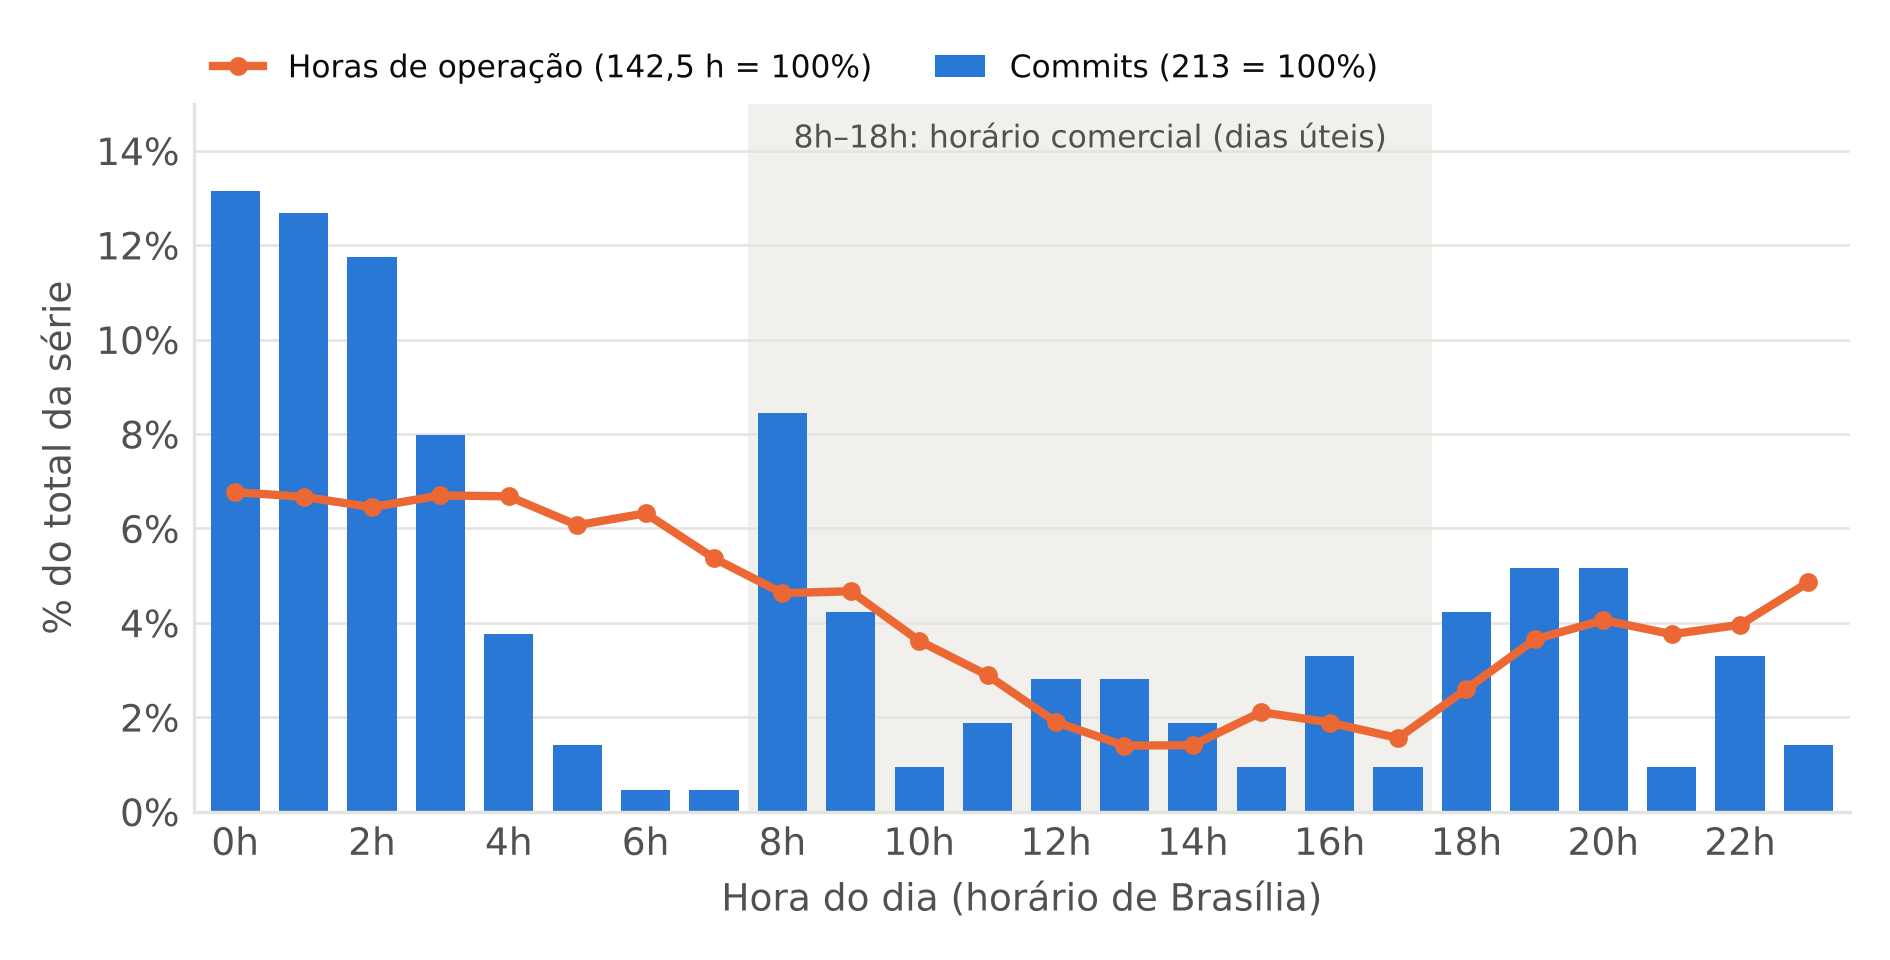
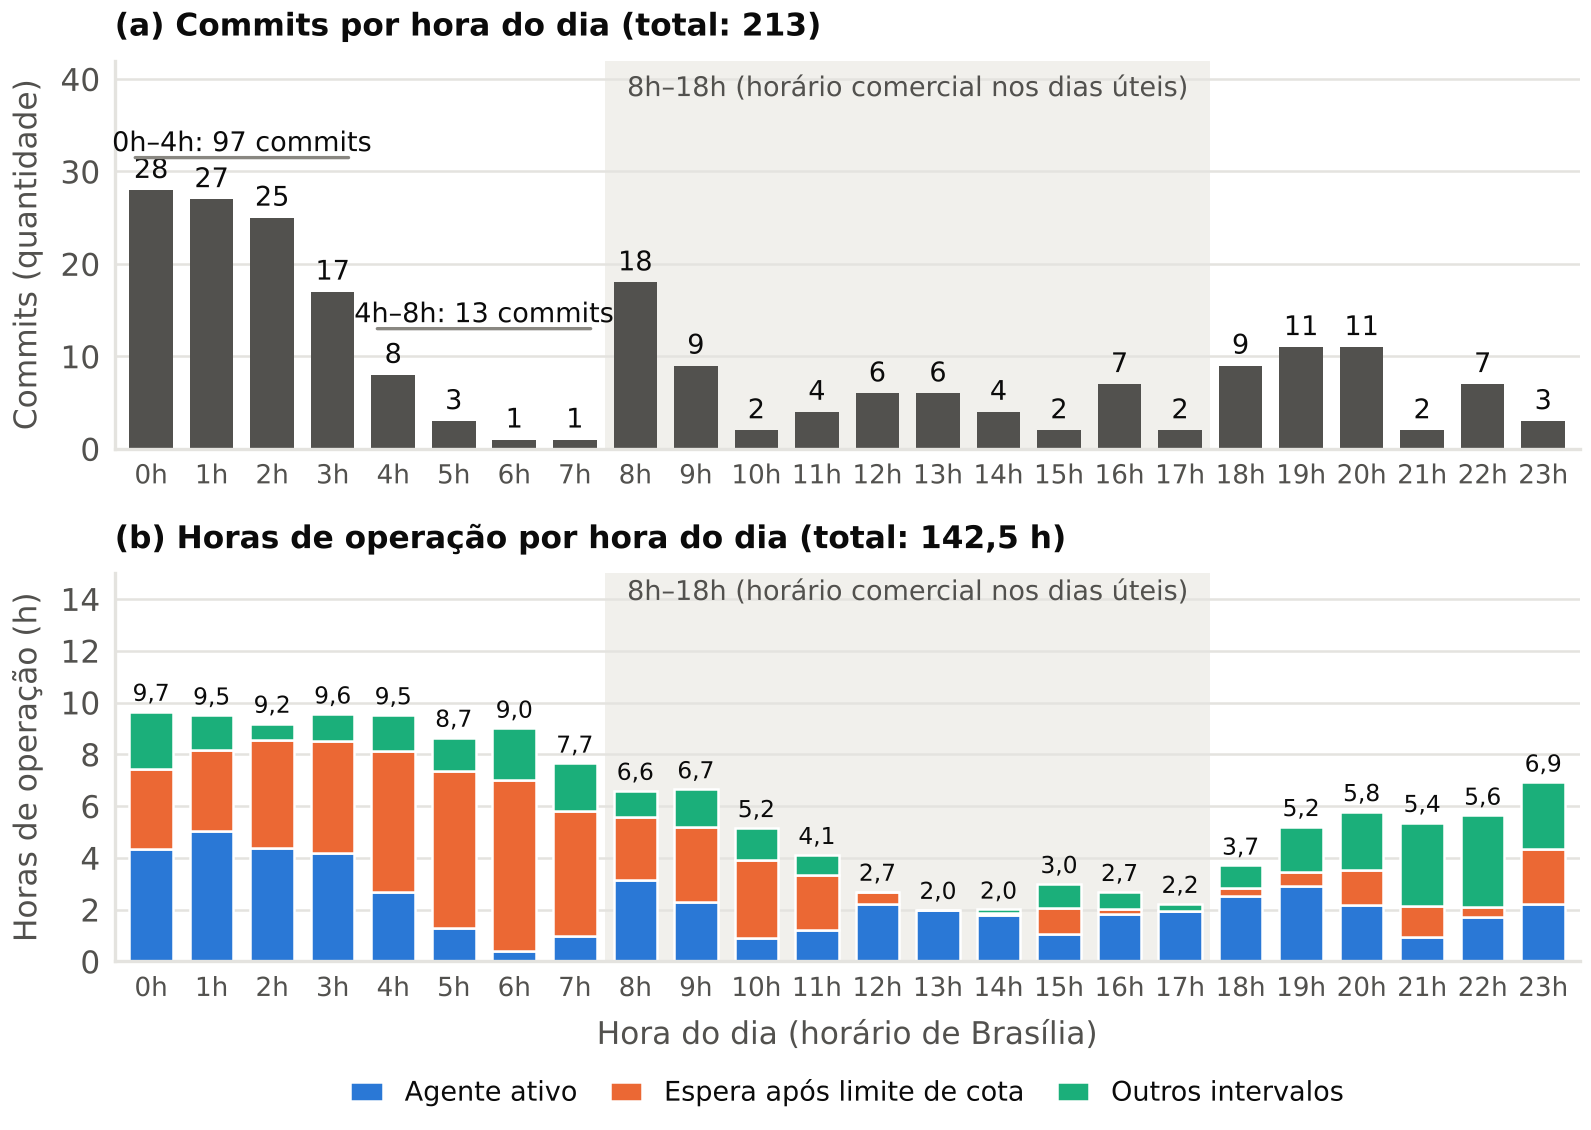
Figura 7 em dois painéis e commits por horário do estudo de caso
A Figura 7 passa a mostrar a quantidade de commits e as horas de operação
(agente ativo, espera após limite de cota e outros intervalos) por hora do
dia, no lugar do percentual de cada série. O analise.py do estudo de caso
ganha commits_por_horario, que distribui os 36 commits do Git feitos durante
a execução entre dentro e fora do horário comercial (21 e 15); novo
resultado ppt_commits_horario.csv e campo commits_por_horario no
resumo_ppt.json. PTAX de 06/10/2026 conferida no Banco Central e grafia dos
autores corrigida nos metadados. Versão 1.2-artigo no .zenodo.json e no
CITATION.cff.

Changed region(s): [[0.0, 0.0, 0.9855, 1.0], [0.4004, 0.125, 0.7392, 0.1562]]

diff --git a/corpus_multiprojeto/figura7.py b/corpus_multiprojeto/figura7.py
@@ -1,8 +1,9 @@
-"""Figura 7 do artigo: commits e horas de operação por hora do dia.
+"""Figura 7 do artigo: commits e horas de operação por hora do dia (27 execuções).
 
 Uso: python figura7.py resultados/distribuicao_horaria.csv figura7.png
 Requer matplotlib (único script do repositório que não usa só a biblioteca padrão).
-As duas séries estão em percentual do próprio total, para caberem num único eixo.
+Dois painéis com o mesmo eixo horizontal: (a) quantidade de commits por hora;
+(b) horas de operação por hora, divididas em agente ativo, espera após limite e outros.
 """
 import csv
 import sys
@@ -11,51 +12,91 @@ import matplotlib
 
 matplotlib.use("Agg")
 import matplotlib.pyplot as plt  # noqa: E402
-from matplotlib.ticker import FuncFormatter  # noqa: E402
 
-AZUL, LARANJA = "#2a78d6", "#eb6834"          # paleta categórica validada, posições 1 e 2
-TINTA, TINTA2, GRADE, FAIXA = "#0b0b0b", "#52514e", "#e4e3df", "#f1f0ec"
+TINTA, TINTA2, MUDO, GRADE, FAIXA = "#0b0b0b", "#52514e", "#898781", "#e4e3df", "#f1f0ec"
+COMMITS = "#52514e"                                   # série única: neutra
+ATIVO, ESPERA, OUTROS = "#2a78d6", "#eb6834", "#1baf7a"  # paleta categórica validada, 1-3
+
+
+def br(v, casas=1):
+    return f"{v:.{casas}f}".replace(".", ",")
+
+
+def faixa(ax, ytop, rotulo=True):
+    ax.axvspan(7.5, 17.5, color=FAIXA, zorder=0, lw=0)
+    if rotulo:
+        ax.text(12.5, ytop, "8h–18h (horário comercial nos dias úteis)", ha="center",
+                va="top", fontsize=6.5, color=TINTA2)
+
+
+def chave(ax, x0, x1, y, texto):
+    ax.annotate("", xy=(x0 - 0.4, y), xytext=(x1 + 0.4, y),
+                arrowprops=dict(arrowstyle="-", color=MUDO, lw=0.8))
+    ax.text((x0 + x1) / 2, y, texto, ha="center", va="bottom", fontsize=6.5, color=TINTA)
 
 
 def main(arq, saida):
-    linhas = list(csv.DictReader(open(arq, encoding="utf-8"), delimiter=";"))
-    horas = [int(r["hora_local"]) for r in linhas]
-    commits = [float(r["pct_commits"]) for r in linhas]
-    operacao = [float(r["pct_horas_operacao"]) for r in linhas]
-    n_commits = sum(int(r["commits"]) for r in linhas)
-    h_op = sum(float(r["horas_operacao"]) for r in linhas)
+    L = list(csv.DictReader(open(arq, encoding="utf-8"), delimiter=";"))
+    h = [int(r["hora_local"]) for r in L]
+    com = [int(r["commits"]) for r in L]
+    op = [float(r["horas_operacao"]) for r in L]
+    at = [float(r["horas_agente_ativo"]) for r in L]
+    es = [float(r["horas_parada_apos_limite"]) for r in L]
+    ou = [max(o - a - e, 0) for o, a, e in zip(op, at, es)]
 
-    plt.rcParams.update({"font.family": "DejaVu Sans", "font.size": 9})
-    fig, ax = plt.subplots(figsize=(6.3, 3.2), dpi=300)
+    def soma(v, a, b):
+        return sum(v[i] for i in range(a, b))
+
+    plt.rcParams.update({"font.family": "DejaVu Sans", "font.size": 7.5})
+    fig, (a1, a2) = plt.subplots(2, 1, figsize=(6.3, 3.9), dpi=300, sharex=True,
+                                 gridspec_kw={"height_ratios": [1, 1], "hspace": 0.32})
     fig.patch.set_facecolor("white")
 
-    ax.axvspan(7.5, 17.5, color=FAIXA, zorder=0, lw=0)
-    ax.text(12.5, 14.6, "8h–18h: horário comercial (dias úteis)", ha="center", va="top",
-            fontsize=7.5, color=TINTA2)
+    # (a) commits
+    faixa(a1, 40.5)
+    a1.bar(h, com, width=0.72, color=COMMITS, zorder=2)
+    for x, v in zip(h, com):
+        a1.text(x, v + 0.6, str(v), ha="center", va="bottom", fontsize=6.5, color=TINTA)
+    chave(a1, 0, 3, 31.5, f"0h–4h: {soma(com, 0, 4)} commits")
+    chave(a1, 4, 7, 13.0, f"4h–8h: {soma(com, 4, 8)} commits")
+    a1.set_ylim(0, 42)
+    a1.set_ylabel("Commits (quantidade)", color=TINTA2)
+    a1.set_title(f"(a) Commits por hora do dia (total: {sum(com)})", loc="left",
+                 fontsize=7.5, color=TINTA, fontweight="bold")
 
-    ax.bar(horas, commits, width=0.72, color=AZUL, zorder=2,
-           label=f"Commits ({n_commits} = 100%)")
-    ax.plot(horas, operacao, color=LARANJA, lw=2, marker="o", ms=3.5, zorder=3,
-            label=f"Horas de operação ({h_op:.1f} h = 100%)".replace(".", ","))
+    # (b) horas de operação, empilhadas
+    faixa(a2, 14.8)
+    kw = dict(width=0.72, edgecolor="white", linewidth=0.6, zorder=2)
+    a2.bar(h, at, color=ATIVO, label="Agente ativo", **kw)
+    a2.bar(h, es, bottom=at, color=ESPERA, label="Espera após limite de cota", **kw)
+    a2.bar(h, ou, bottom=[a + e for a, e in zip(at, es)], color=OUTROS,
+           label="Outros intervalos", **kw)
+    for x, v in zip(h, op):
+        a2.text(x, v + 0.2, br(v), ha="center", va="bottom", fontsize=5.6, color=TINTA)
+    a2.set_ylim(0, 15)
+    a2.set_yticks(range(0, 15, 2))
+    a2.set_ylabel("Horas de operação (h)", color=TINTA2)
+    a2.set_title(f"(b) Horas de operação por hora do dia (total: {br(sum(op))} h)",
+                 loc="left", fontsize=7.5, color=TINTA, fontweight="bold")
+    a2.legend(loc="upper center", bbox_to_anchor=(0.5, -0.24), ncol=3, frameon=False,
+              fontsize=6.5, labelcolor=TINTA, handlelength=1.2, columnspacing=1.2)
 
-    ax.set_xlim(-0.6, 23.6)
-    ax.set_ylim(0, 15)
-    ax.set_xticks(range(0, 24, 2))
-    ax.set_xticklabels([f"{h}h" for h in range(0, 24, 2)])
-    ax.yaxis.set_major_formatter(FuncFormatter(lambda v, _: f"{v:.0f}%"))
-    ax.set_xlabel("Hora do dia (horário de Brasília)", color=TINTA2)
-    ax.set_ylabel("% do total da série", color=TINTA2)
-    ax.grid(axis="y", color=GRADE, lw=0.6, zorder=1)
-    for lado in ("top", "right"):
-        ax.spines[lado].set_visible(False)
-    for lado in ("left", "bottom"):
-        ax.spines[lado].set_color(GRADE)
-    ax.tick_params(colors=TINTA2, length=0)
-    ax.legend(loc="lower left", bbox_to_anchor=(0, 1.0), ncol=2, frameon=False, fontsize=7.5,
-              labelcolor=TINTA, borderaxespad=0.2, handlelength=1.6)
+    a2.set_xlim(-0.6, 23.6)
+    a2.set_xticks(range(24))
+    a2.set_xticklabels([f"{x}h" for x in range(24)], fontsize=6.3)
+    a2.set_xlabel("Hora do dia (horário de Brasília)", color=TINTA2)
+    for ax in (a1, a2):
+        ax.grid(axis="y", color=GRADE, lw=0.6, zorder=1)
+        for lado in ("top", "right"):
+            ax.spines[lado].set_visible(False)
+        for lado in ("left", "bottom"):
+            ax.spines[lado].set_color(GRADE)
+        ax.tick_params(colors=TINTA2, length=0)
+    a1.tick_params(labelbottom=True)
+    a1.set_xticks(range(24))
+    a1.set_xticklabels([f"{x}h" for x in range(24)], fontsize=6.3)
 
-    fig.tight_layout()
-    fig.savefig(saida, dpi=300, facecolor="white")
+    fig.savefig(saida, dpi=300, facecolor="white", bbox_inches="tight", pad_inches=0.04)
 
 
 if __name__ == "__main__":

diff --git a/estudo_de_caso_ppt_maker/analise.py b/estudo_de_caso_ppt_maker/analise.py
@@ -8,7 +8,7 @@ import csv
 import json
 import re
 from collections import Counter, defaultdict
-from datetime import datetime, timezone
+from datetime import datetime, timedelta, timezone
 from pathlib import Path
 
 AQUI = Path(__file__).resolve().parent
@@ -27,7 +27,7 @@ BASE = {
     "claude-sonnet-4-6": (3, 15), "claude-haiku-4-5": (1, 5),
 }
 LEITURA = {"claude-opus-5-5": 0.20, "claude-fable-5-1": 0.25, "claude-sonnet-5-5": 0.20}
-PTAX = 4.9698  # R$ por US$, 06/10/2026 (confirmar em ptax.bcb.gov.br)
+PTAX = 4.9698  # R$ por US$, venda, 06/10/2026 (Banco Central do Brasil, conferido)
 
 
 def preco(modelo):
@@ -174,6 +174,46 @@ def tempo_por_fase(fases, esperas, resumo):
         "outro_parado_h")}
 
 
+INICIO_EXEC = datetime.fromisoformat("2026-10-05T18:39:00-03:00")
+FIM_EXEC = datetime.fromisoformat("2026-10-10T06:40:00-03:00")
+
+
+def horario_comercial(d):
+    """Segunda a sexta, das 8h às 18h, no horário de Brasília (mesma definição do corpus)."""
+    return d.weekday() < 5 and 8 <= d.hour < 18
+
+
+def commits_por_horario(arquivo, resumo):
+    """Distribui todos os commits do Git feitos durante a execução entre dentro e fora do horário comercial.
+
+    Aceita linhas 'hash|data' ou 'hash|data|autor|assunto' (data no formato git --date=iso).
+    """
+    linhas = []
+    for linha in open(arquivo, encoding="utf-8-sig"):
+        if not linha.strip():
+            continue
+        h, data = linha.rstrip("\n").split("|", 3)[:2]
+        d = datetime.strptime(data.strip(), "%Y-%m-%d %H:%M:%S %z")
+        if INICIO_EXEC <= d <= FIM_EXEC:
+            linhas.append({"commit": h, "data_local": d.isoformat(),
+                           "horario_comercial": "sim" if horario_comercial(d) else "não"})
+    linhas.sort(key=lambda x: x["data_local"])
+    gravar_csv("ppt_commits_horario.csv", linhas)
+    minutos, fora = 0, 0
+    t = INICIO_EXEC
+    while t < FIM_EXEC:
+        minutos += 1
+        fora += not horario_comercial(t)
+        t += timedelta(minutes=1)
+    n = len(linhas)
+    n_hc = sum(1 for x in linhas if x["horario_comercial"] == "sim")
+    resumo["commits_por_horario"] = {
+        "commits_na_execucao": n, "em_horario_comercial": n_hc, "fora_do_horario": n - n_hc,
+        "pct_commits_fora": round(100 * (n - n_hc) / n, 1),
+        "pct_tempo_fora": round(100 * fora / minutos, 1),
+    }
+
+
 def main():
     resumo = {}
 
@@ -302,6 +342,7 @@ def main():
     resumo["git"] = {"commits": commits, "commits_de_fase": sum(f[2] for f in fases.values()),
                      "arquivos_versionados": sum(1 for _ in open(EV / "03_git" / "arquivos_versionados.txt",
                                                                  encoding="utf-8"))}
+    commits_por_horario(EV / "03_git" / "git_log.txt", resumo)
     resumo["gerado_em_utc"] = datetime.now(timezone.utc).isoformat(timespec="seconds")
     (SAIDA / "resumo.json").write_text(json.dumps(resumo, ensure_ascii=False, indent=2, default=dict),
                                         encoding="utf-8")

diff --git a/README.md b/README.md
@@ -10,7 +10,7 @@ O repositório contém apenas os **scripts de análise** e os **dados anonimizad
 corpus_multiprojeto/            Seções 2.4 e 3.4 do artigo
   dados/quota_anonimizado.jsonl   registro de cota do AutoDev, 26/08 a 27/09/2026 (1.079 registros)
   analise_autodev.py              script de análise (Python 3.9+, só biblioteca padrão)
-  figura7.py                      gera a Figura 7 a partir de resultados/distribuicao_horaria.csv (requer matplotlib)
+  figura7.py                      gera a Figura 7 (dois painéis: commits e horas de operação por hora do dia) a partir de resultados/distribuicao_horaria.csv (requer matplotlib)
   resultados/                     saída do script (resumo.json e CSVs)
 estudo_de_caso_ppt_maker/       Seção 3.5 do artigo
   analise.py                      script usado sobre as evidências do estudo de caso
@@ -47,13 +47,14 @@ No registro de cota, o campo `root` (caminho da pasta do projeto no computador d
 
 ## Observações sobre o estudo de caso PPT_Maker
 
-As evidências brutas do estudo de caso (transcrições das sessões, registro de eventos do AutoDev e histórico do Git) contêm material interno da empresa onde o projeto foi desenvolvido e **não são publicadas**. Por isso, `analise.py` está aqui para documentar o método, mas não pode ser executado sem essas evidências. Os resultados publicados são versões reduzidas da saída do script:
+As evidências brutas do estudo de caso (transcrições das sessões, registro de eventos do AutoDev e histórico do Git) contêm informações privadas e **não são publicadas**. Por isso, `analise.py` está aqui para documentar o método, mas não pode ser executado sem essas evidências. Os resultados publicados são versões reduzidas da saída do script:
 
 - `ppt_revisoes_qa.csv` e `ppt_intervencoes_do_usuario.csv` trazem só data, resultado e tipo, sem o texto das mensagens.
 - `ppt_consumo_por_sessao.csv` traz só as sessões do projeto PPT_Maker.
 - `ppt_tempo_por_fase.csv` traz as parcelas por fase arredondadas a uma casa; por isso, a soma da coluna `outro_parado_h` (9,8 h) difere do total calculado sem arredondamento em `resumo_ppt.json` (10,0 h).
+- `ppt_commits_horario.csv` traz os 36 *commits* do Git feitos durante a execução (de 05/10/2026, 18h39, a 10/10/2026, 6h40), com data e indicação de horário comercial; o resumo está em `resumo_ppt.json`, campo `commits_por_horario` (seção 3.5 do artigo).
 - `ppt_falhas.csv` resume as seis falhas descritas no Quadro 7 do artigo. As falhas F4 e F6 foram caracterizadas pelos registros de energia do Windows (Kernel-Power 506 e 507).
-- O custo equivalente pela API usa a tabela de preços de 25/09/2026 para o modelo Claude Opus 5.5 (US$ por milhão de tokens: entrada 4,00; saída 20,00; leitura de cache 0,20; escrita de cache 5,00 para 5 minutos e 8,00 para 1 hora) e a PTAX de 06/10/2026.
+- O custo equivalente pela API usa a tabela de preços de 25/09/2026 para o modelo Claude Opus 5.5 (US$ por milhão de tokens: entrada 4,00; saída 20,00; leitura de cache 0,20; escrita de cache 5,00 para 5 minutos e 8,00 para 1 hora) e a PTAX de venda de 06/10/2026 (R$ 4,9698, Banco Central do Brasil).
 
 ## Limitações dos dados
 
@@ -66,6 +67,13 @@ As evidências brutas do estudo de caso (transcrições das sessões, registro d
 
 - Scripts (`*.py`): licença MIT (arquivo `LICENSE`).
 - Dados e resultados (`*.jsonl`, `*.csv`, `*.json`): Creative Commons Atribuição 4.0 Internacional (arquivo `LICENSE-DADOS.md`).
+
+## Alterações na versão 1.2-artigo
+
+- `corpus_multiprojeto/figura7.py`: a Figura 7 passa a ter dois painéis, com a quantidade de *commits* e as horas de operação (agente ativo, espera após limite de cota e outros intervalos) por hora do dia, no lugar do percentual de cada série.
+- `estudo_de_caso_ppt_maker/analise.py`: nova função `commits_por_horario`, que distribui todos os *commits* do Git feitos durante a execução entre dentro e fora do horário comercial; novo resultado `ppt_commits_horario.csv` e campo `commits_por_horario` em `resumo_ppt.json`.
+- PTAX de 06/10/2026 conferida no Banco Central do Brasil.
+- Grafia dos nomes dos autores corrigida nos metadados.
 
 ## Como citar
 
